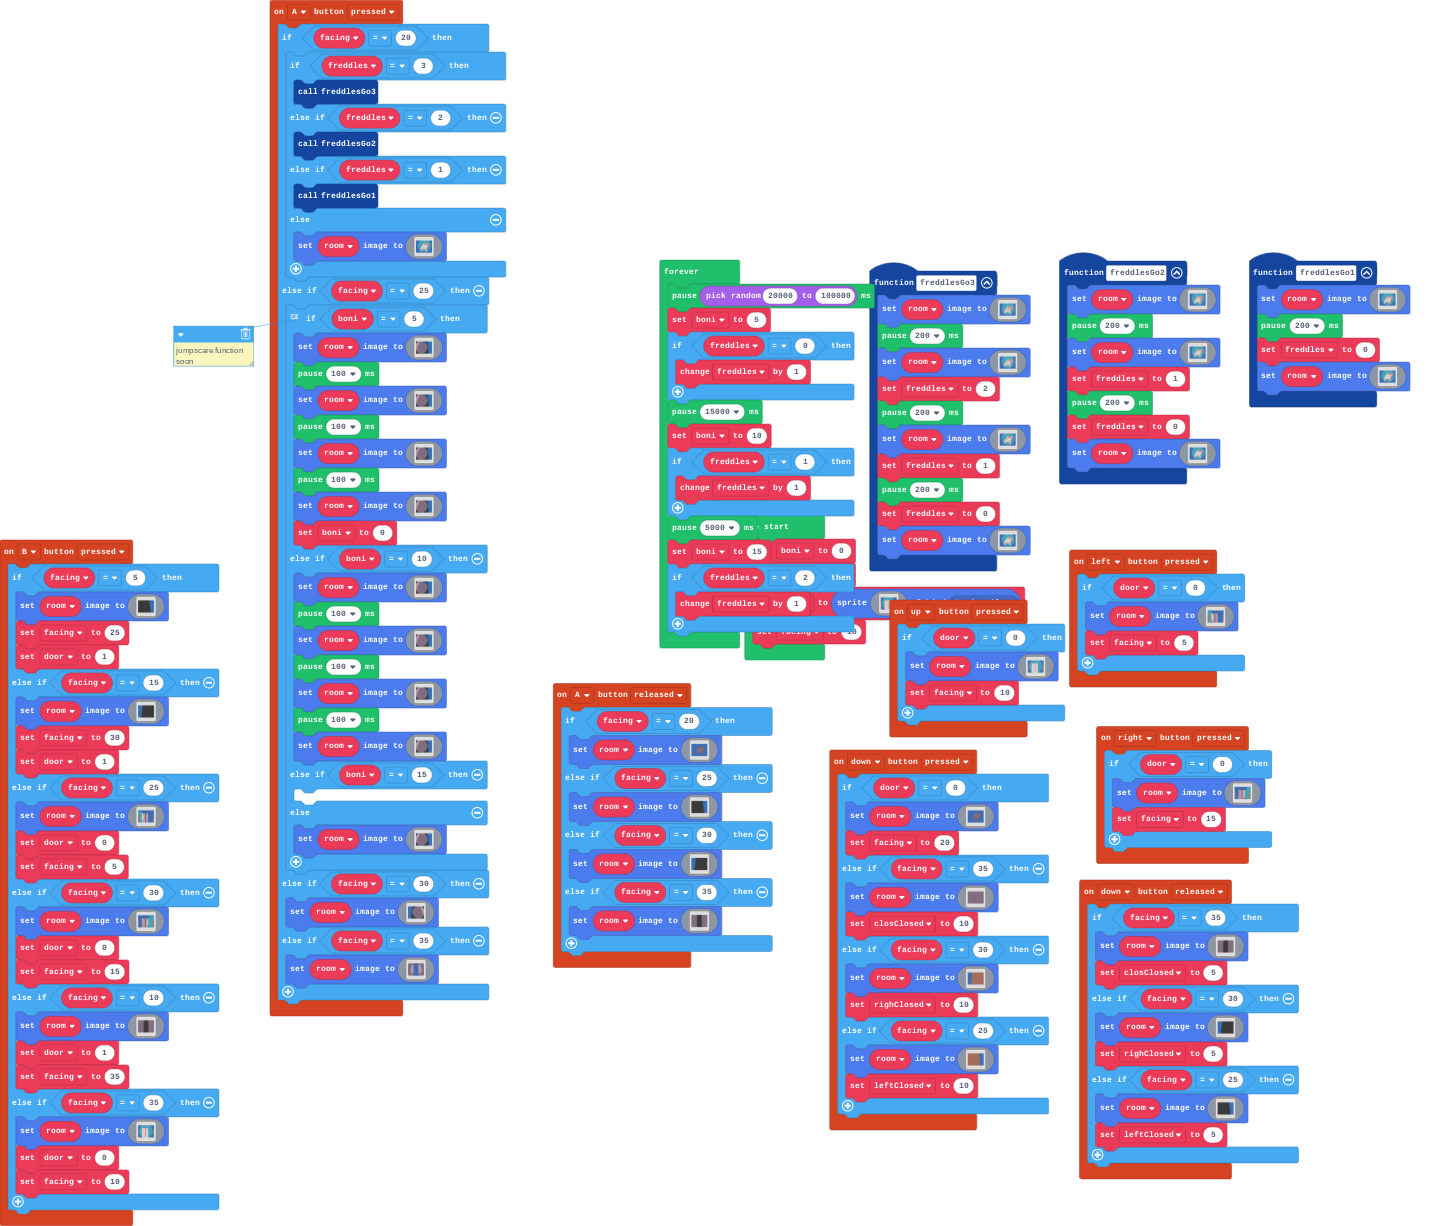
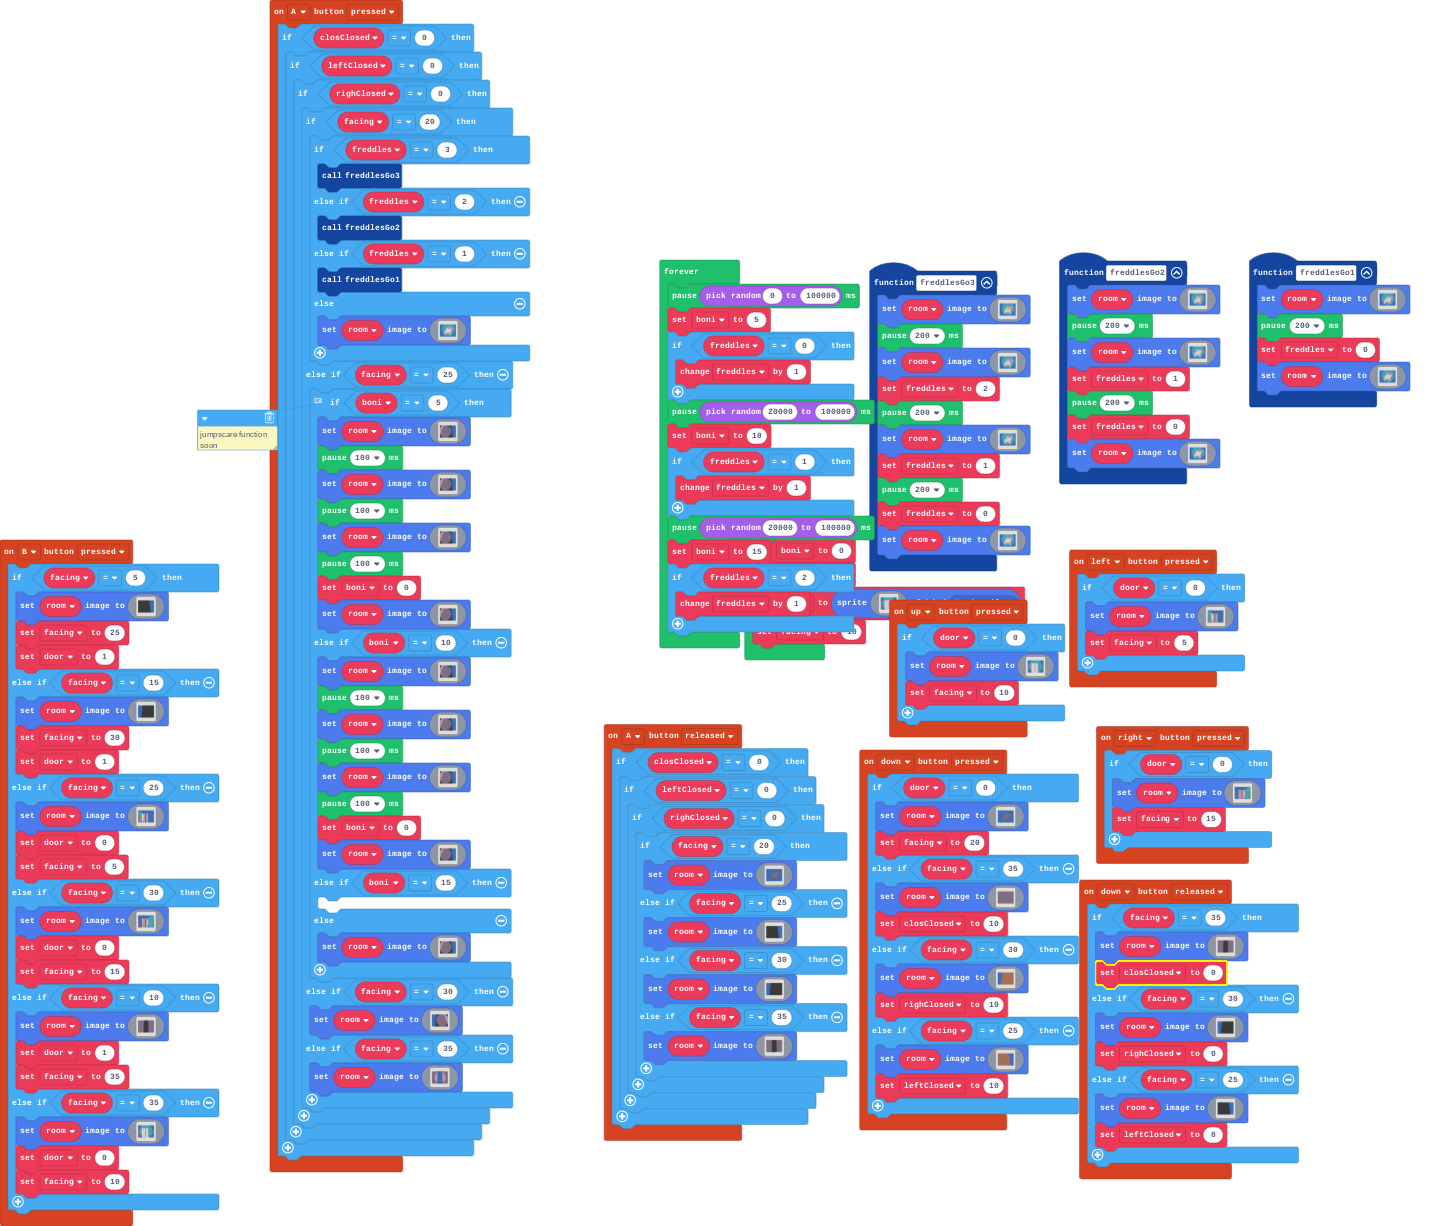
Update main.blocks, main.ts

diff --git a/main.ts b/main.ts
@@ -38,56 +38,63 @@ controller.B.onEvent(ControllerButtonEvent.Pressed, function () {
     }
 })
 controller.A.onEvent(ControllerButtonEvent.Pressed, function () {
-    if (facing == 20) {
-        if (freddles == 3) {
-            freddlesGo3()
-        } else if (freddles == 2) {
-            freddlesGo2()
-        } else if (freddles == 1) {
-            freddlesGo1()
-        } else {
-            room.setImage(assets.image`bedRoomOn0`)
+    if (closClosed == 0) {
+        if (leftClosed == 0) {
+            if (righClosed == 0) {
+                if (facing == 20) {
+                    if (freddles == 3) {
+                        freddlesGo3()
+                    } else if (freddles == 2) {
+                        freddlesGo2()
+                    } else if (freddles == 1) {
+                        freddlesGo1()
+                    } else {
+                        room.setImage(assets.image`bedRoomOn0`)
+                    }
+                } else if (facing == 25) {
+                    // jumpscare function soon
+                    if (boni == 5) {
+                        room.setImage(assets.image`leftDoorLightBonnieHiding`)
+                        pause(100)
+                        room.setImage(assets.image`rightDoorLightBonnieHiding2`)
+                        pause(100)
+                        room.setImage(assets.image`rightDoorLightBonnieHiding3`)
+                        pause(100)
+                        boni = 0
+                        room.setImage(assets.image`leftDoorLight`)
+                    } else if (boni == 10) {
+                        room.setImage(assets.image`leftDoorLightBonnieHiding`)
+                        pause(100)
+                        room.setImage(assets.image`rightDoorLightBonnieHiding2`)
+                        pause(100)
+                        room.setImage(assets.image`rightDoorLightBonnieHiding3`)
+                        pause(100)
+                        boni = 0
+                        room.setImage(assets.image`leftDoorLight`)
+                    } else if (boni == 15) {
+                    	
+                    } else {
+                        room.setImage(assets.image`leftDoorLight`)
+                    }
+                } else if (facing == 30) {
+                    room.setImage(assets.image`rightDoorLight`)
+                } else if (facing == 35) {
+                    room.setImage(assets.image`closetLight`)
+                }
+            }
         }
-    } else if (facing == 25) {
-        // jumpscare function soon
-        if (boni == 5) {
-            room.setImage(assets.image`leftDoorLightBonnieHiding`)
-            pause(100)
-            room.setImage(assets.image`rightDoorLightBonnieHiding2`)
-            pause(100)
-            room.setImage(assets.image`rightDoorLightBonnieHiding3`)
-            pause(100)
-            room.setImage(assets.image`leftDoorLight`)
-            boni = 0
-        } else if (boni == 10) {
-            room.setImage(assets.image`leftDoorLightBonnieHiding`)
-            pause(100)
-            room.setImage(assets.image`rightDoorLightBonnieHiding2`)
-            pause(100)
-            room.setImage(assets.image`rightDoorLightBonnieHiding3`)
-            pause(100)
-            room.setImage(assets.image`leftDoorLight`)
-        } else if (boni == 15) {
-        	
-        } else {
-            room.setImage(assets.image`leftDoorLight`)
-        }
-    } else if (facing == 30) {
-        room.setImage(assets.image`rightDoorLight`)
-    } else if (facing == 35) {
-        room.setImage(assets.image`closetLight`)
     }
 })
 controller.down.onEvent(ControllerButtonEvent.Released, function () {
     if (facing == 35) {
         room.setImage(assets.image`closet`)
-        closClosed = 5
+        closClosed = 0
     } else if (facing == 30) {
         room.setImage(assets.image`rightDoor`)
-        righClosed = 5
+        righClosed = 0
     } else if (facing == 25) {
         room.setImage(assets.image`leftDoor`)
-        leftClosed = 5
+        leftClosed = 0
     }
 })
 controller.left.onEvent(ControllerButtonEvent.Pressed, function () {
@@ -112,14 +119,20 @@ controller.right.onEvent(ControllerButtonEvent.Pressed, function () {
     }
 })
 controller.A.onEvent(ControllerButtonEvent.Released, function () {
-    if (facing == 20) {
-        room.setImage(assets.image`bedRoomOff`)
-    } else if (facing == 25) {
-        room.setImage(assets.image`leftDoor`)
-    } else if (facing == 30) {
-        room.setImage(assets.image`rightDoor`)
-    } else if (facing == 35) {
-        room.setImage(assets.image`closet`)
+    if (closClosed == 0) {
+        if (leftClosed == 0) {
+            if (righClosed == 0) {
+                if (facing == 20) {
+                    room.setImage(assets.image`bedRoomOff`)
+                } else if (facing == 25) {
+                    room.setImage(assets.image`leftDoor`)
+                } else if (facing == 30) {
+                    room.setImage(assets.image`rightDoor`)
+                } else if (facing == 35) {
+                    room.setImage(assets.image`closet`)
+                }
+            }
+        }
     }
 })
 function freddlesGo3 () {
@@ -149,8 +162,8 @@ controller.down.onEvent(ControllerButtonEvent.Pressed, function () {
         leftClosed = 10
     }
 })
-let leftClosed = 0
 let righClosed = 0
+let leftClosed = 0
 let closClosed = 0
 let freddles = 0
 let facing = 0
@@ -162,17 +175,17 @@ door = 0
 room = sprites.create(assets.image`frontRoom`, SpriteKind.Projectile)
 facing = 10
 forever(function () {
-    pause(randint(20000, 100000))
+    pause(randint(0, 100000))
     boni = 5
     if (freddles == 0) {
         freddles += 1
     }
-    pause(15000)
+    pause(randint(20000, 100000))
     boni = 10
     if (freddles == 1) {
         freddles += 1
     }
-    pause(5000)
+    pause(randint(20000, 100000))
     boni = 15
     if (freddles == 2) {
         freddles += 1
